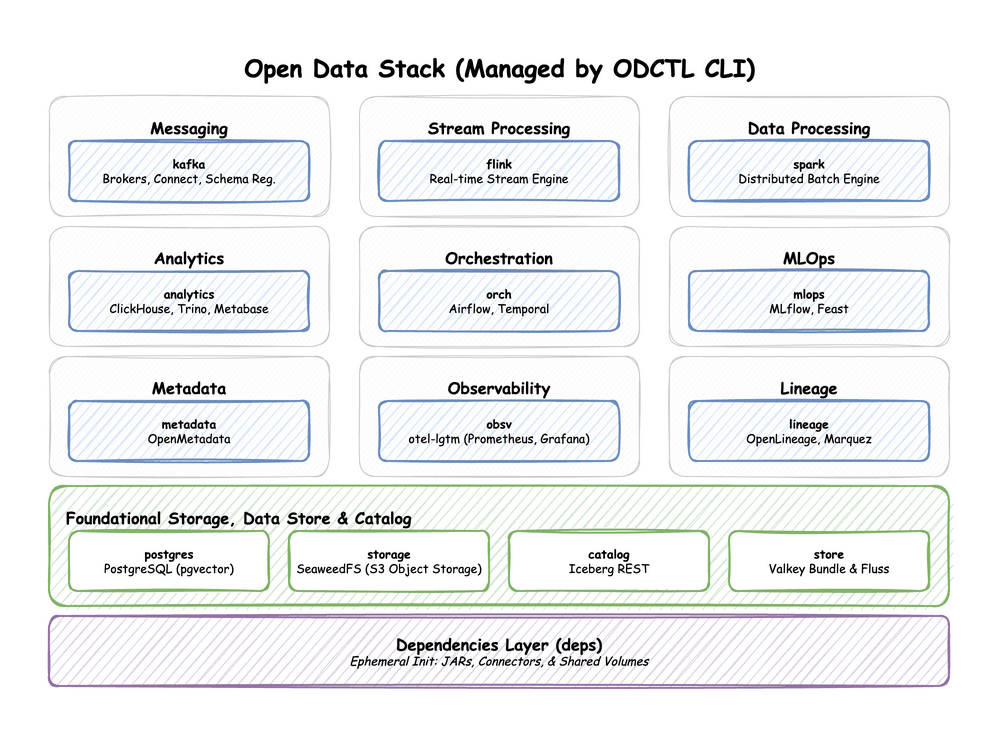
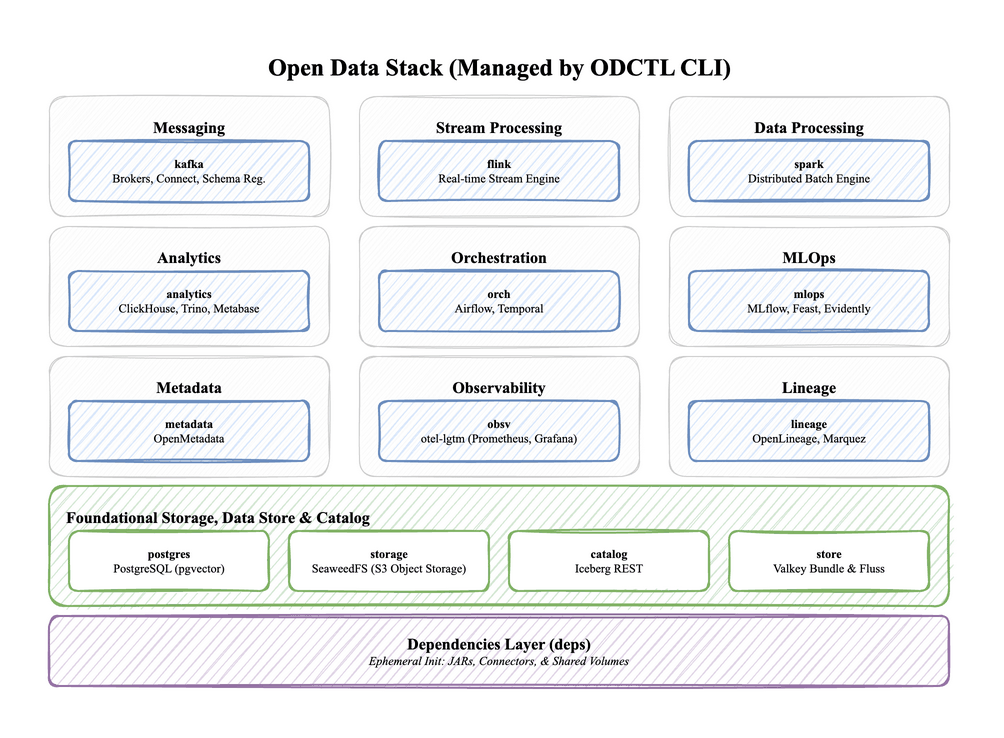
feat: add an evidently profile for ML monitoring (#107)
One container from a new odctl/evidently image, which adds s3fs to
evidently/evidently-service:0.7.23. Projects, reports and dashboards go to an
evidently database on postgres and dataset files to s3://evidently/datasets.
Settings come from a mounted config file, because EVIDENTLY_* variables load in
environment order and database ahead of storage fails at start.

diff --git a/tests/test_evidently_profile.py b/tests/test_evidently_profile.py
@@ -1,0 +1,101 @@
+"""The evidently profile runs the odctl Evidently image on Postgres and SeaweedFS.
+
+Projects, reports and dashboards go to the evidently database and dataset files
+to s3://evidently/datasets. Nothing here needs Docker.
+"""
+
+from pathlib import Path
+
+import yaml
+
+from odctl.config import get_internal_resources_dir
+
+RESOURCES = get_internal_resources_dir()
+REPO = Path(__file__).resolve().parents[1]
+
+
+def _compose(name):
+    return yaml.safe_load((RESOURCES / name).read_text())
+
+
+def _evidently():
+    return _compose("compose-mlops.yml")["services"]["evidently"]
+
+
+def test_evidently_runs_the_odctl_image_on_host_port_8089():
+    service = _evidently()
+    assert service["image"] == "ghcr.io/jaehyeon-kim/odctl/evidently:${TAG:-latest}"
+    assert service["profiles"] == ["evidently"]
+    assert service["ports"] == ["8089:8000"]
+
+
+def test_evidently_reads_its_settings_from_the_mounted_file():
+    service = _evidently()
+    assert service["command"] == ["--conf-path", "/etc/evidently/config.yaml"]
+    assert service["volumes"] == [
+        "./evidently/config.yaml:/etc/evidently/config.yaml:ro"
+    ]
+    env = service["environment"]
+    assert env["POSTGRES_USER"] == "${POSTGRES_USER:-user}"
+    assert env["POSTGRES_PASSWORD"] == "${POSTGRES_PASSWORD:-password}"
+    # Sections from EVIDENTLY_* variables load in environment order, and
+    # database ahead of storage fails at start, so none are set here.
+    assert not [k for k in env if k.startswith("EVIDENTLY_")]
+
+
+def test_evidently_config_keeps_state_on_postgres_and_datasets_on_s3():
+    config = yaml.safe_load((RESOURCES / "evidently" / "config.yaml").read_text())
+    sections = list(config)
+    assert sections.index("storage") < sections.index("database")
+    assert config["storage"]["type"] == "sql"
+    assert config["database"]["url"].startswith("@format postgresql://")
+    assert config["database"]["url"].endswith("@postgres:5432/evidently")
+    assert config["dashboard"]["storage_type"] == "sql"
+    assert config["dataset_storage"] == {
+        "type": "fsspec",
+        "path": "s3://evidently/datasets",
+    }
+
+
+def test_evidently_reaches_seaweedfs_and_sends_no_usage_telemetry():
+    env = _evidently()["environment"]
+    assert env["FSSPEC_S3_ENDPOINT_URL"] == "http://seaweed:8333"
+    assert env["FSSPEC_S3_KEY"] == "${AWS_ACCESS_KEY_ID:-user}"
+    assert env["FSSPEC_S3_SECRET"] == "${AWS_SECRET_ACCESS_KEY:-password}"
+    assert env["DO_NOT_TRACK"] == "1"
+
+
+def test_healthcheck_opens_the_database():
+    test = _evidently()["healthcheck"]["test"]
+    assert test[:3] == ["CMD", "python", "-c"]
+    assert "http://127.0.0.1:8000/api/v2/projects" in test[3]
+
+
+def test_storage_creates_the_evidently_bucket():
+    init = _compose("compose-infra.yml")["services"]["seaweed-init"]
+    assert " evidently'" in init["entrypoint"]
+
+
+def test_postgres_creates_the_evidently_database():
+    script = (RESOURCES / "postgres" / "01-init-databases.sh").read_text()
+    assert 'CREATE DATABASE evidently OWNER "$POSTGRES_USER";' in script
+    loop = next(line for line in script.splitlines() if line.startswith("for db in"))
+    assert " evidently;" in loop
+
+
+def test_the_image_adds_s3fs_and_is_built_with_the_others():
+    dockerfile = (RESOURCES / "docker" / "evidently" / "Dockerfile").read_text()
+    assert "FROM evidently/evidently-service:0.7.23" in dockerfile
+    assert "s3fs==" in dockerfile
+    workflow = yaml.safe_load(
+        (REPO / ".github" / "workflows" / "build-platform-images.yml").read_text()
+    )
+    for job in ("build", "merge"):
+        assert "evidently" in workflow["jobs"][job]["strategy"]["matrix"]["component"]
+
+
+def test_evidently_has_an_e2e_group_and_a_smoke_test():
+    selector = (REPO / ".github" / "scripts" / "select-profiles.py").read_text()
+    assert '    "evidently",\n' in selector
+    smoke = (REPO / ".github" / "scripts" / "smoke.sh").read_text()
+    assert "  evidently)  smoke_evidently ;;" in smoke

diff --git a/.github/scripts/select-profiles.py b/.github/scripts/select-profiles.py
@@ -38,6 +38,9 @@ GROUPS = [
     # feast brings up postgres, storage, catalog and valkey with it, and its
     # assertion installs a client to prove the offline and online halves work.
     "feast",
+    # evidently brings up postgres and storage, and its assertion round-trips a
+    # dataset through SeaweedFS as well as a report through Postgres.
+    "evidently",
     "lineage",
     "telemetry",
     "metadata",

diff --git a/tests/test_feast_profile.py b/tests/test_feast_profile.py
@@ -36,7 +36,7 @@ def test_storage_creates_the_feast_bucket():
         for s in _compose("compose-infra.yml")["services"].values()
         if "BUCKETS=" in str(s.get("entrypoint", ""))
     )
-    assert " feast'" in init["entrypoint"]
+    assert " feast " in init["entrypoint"]
 
 
 def test_airflow_knows_the_feast_registry():

diff --git a/README.md b/README.md
@@ -25,8 +25,8 @@ The stack is organized into distinct profiles that can be launched independently
   - **Stack:** ClickHouse, Trino, Metabase
 - **Orchestration:** Workflow scheduling, DAG execution, and complex pipeline automation, in one container that reads DAGs from object storage. Durable workflows written in code, such as one that waits days for a person to approve an agent's action, in a second container.
   - **Stack:** Apache Airflow (standalone, with the MLflow and Feast clients and the XGBoost, LightGBM and PyTorch runtimes), Temporal (development server with the Web UI and a SQLite database)
-- **MLOps:** Machine learning experiment tracking, model registry, HTTP model serving, and a feature store.
-  - **Stack:** MLflow, Feast
+- **MLOps:** Machine learning experiment tracking, model registry, HTTP model serving, a feature store, and monitoring of data drift and model quality over time.
+  - **Stack:** MLflow, Feast, Evidently
 - **Metadata:** Centralized data catalog, data discovery, and enterprise governance.
   - **Stack:** OpenMetadata
 - **Observability:** Metrics, traces and logs over OpenTelemetry, with dashboards, in one container.
